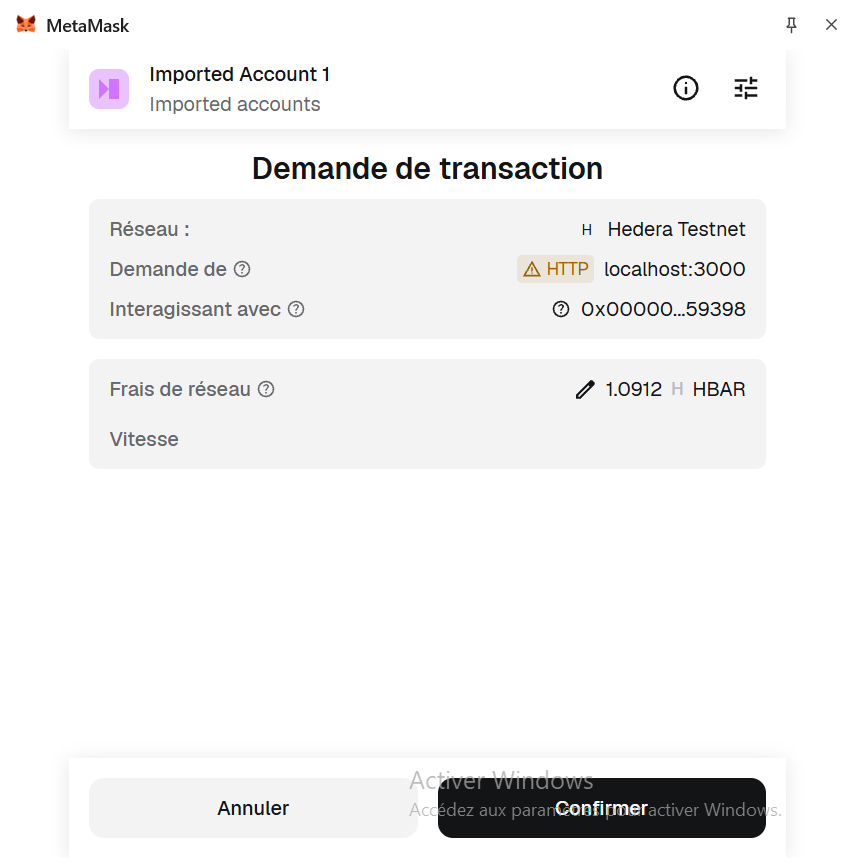
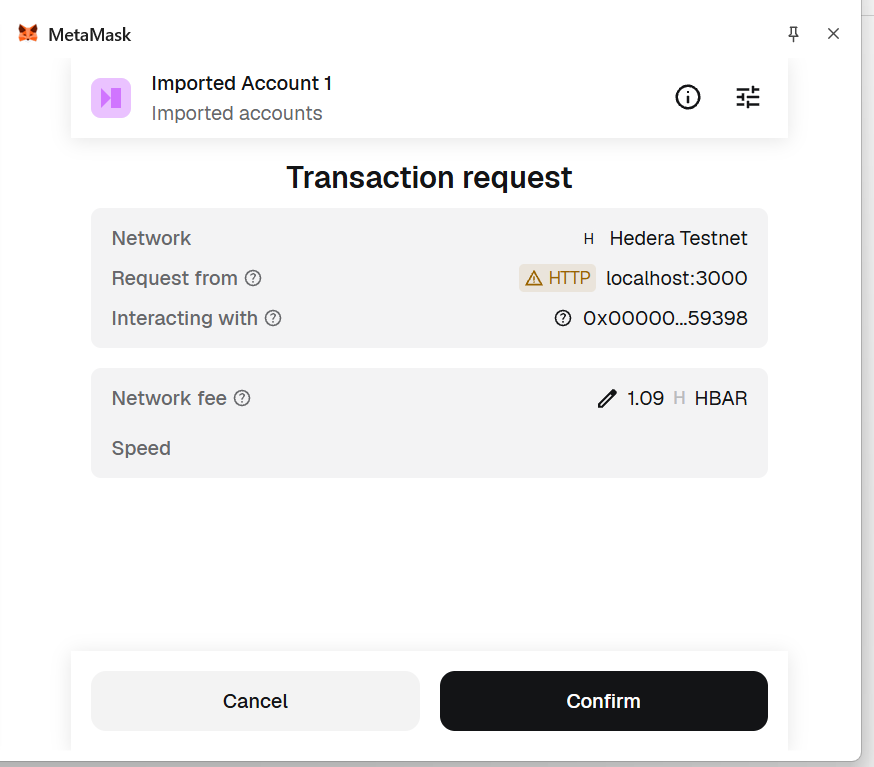
docs: replace the wallet screenshots with English ones
The three pictures are re-taken with the wallet in English and without the desktop watermark, cropped to the panel that carries the claim. Two of them are the same requests re-opened and cancelled on 23 September, not the transactions of 22 September that were signed, and each caption now says so; the third is the activity list rather than a transaction's detail screen, so its caption says what that list does and does not show.

diff --git a/docs/hedera-behaviour.md b/docs/hedera-behaviour.md
@@ -34,13 +34,13 @@ All three answers of the last two rows are captured, so the offline tests replay
 
 **Symptom** — a token-input swap on SaucerSwap V2 needs an HTS allowance for the router. With no allowance, `eth_call` answers a normal result, `eth_estimateGas` answers a number, and the mirror node's own simulator accepts the call as well. The wallet has nothing to warn about: it displayed a network fee of 1.0912 HBAR, a Confirm button and no warning of any kind. The transaction then failed on the network, and the wallet's own history shows "Interaction failed" with no reason at all.
 
-![MetaMask asking for a signature on the swap that would fail: the network, the site, the contract, a network fee of 1.0912 HBAR, and a Confirm button](images/wallet-doomed-swap-confirmation.png)
+![MetaMask asking for a signature on the swap that would fail: the network, the site it comes from, the contract, a network fee of 1.09 HBAR, and Cancel and Confirm](images/wallet-doomed-swap-confirmation.png)
 
-*What the wallet showed before the signature. There is no warning because there is nothing for a wallet to warn about: every simulator it can ask had accepted the call. MetaMask 13.48.0 in French on Chrome 152, Hedera testnet (chain 296), 22 September 2026; the rows read Network, Request from, Interacting with, Network fee. Transaction [`0xdf368443…2352`](https://testnet.mirrornode.hedera.com/api/v1/contracts/results/0xdf368443228e69c4ed1a2a7192d0978b15a51f219981cdd2d5f63250d1582352).*
+*What the wallet shows before the signature: a fee, two buttons, and no warning. There is nothing for it to warn about, because every simulator it can ask had accepted the call. MetaMask 13.48.0 on Chrome 152, Hedera testnet (chain 296). This request was re-opened and cancelled on 23 September 2026 to take the picture; the one that was signed, and lost, is transaction [`0xdf368443…2352`](https://testnet.mirrornode.hedera.com/api/v1/contracts/results/0xdf368443228e69c4ed1a2a7192d0978b15a51f219981cdd2d5f63250d1582352) of 22 September.*
 
-![The same transaction in MetaMask's history: status Failed, the date, the account, the network and the transaction id, and no reason](images/wallet-failed-interaction-detail.png)
+![MetaMask's activity list: an entry reading Interaction failed with the same contract, between an approved spending cap and two successful interactions](images/wallet-failed-interaction-history.png)
 
-*And afterwards. The wallet knows the transaction failed and cannot say why: the reason the `multicall` erased survives only in the mirror node's `/actions`, which is where this template's `postMortem` reads it. The same transaction as above, in the same session: MetaMask 13.48.0 in French on Chrome 152, Hedera testnet (chain 296), 22 September 2026.*
+*And afterwards. The wallet lists the failed interaction and says nothing more about it: no reason, no response code, no amount. What the `multicall` erased survives in the mirror node's `/actions`, which is where this template's `postMortem` reads it.*
 
 **Real cause** — an allowance over an HTS token is held by the token service, below the EVM. A simulation runs EVM logic against ledger balances; the allowance is checked when the transaction reaches consensus, and the router's `exactInput` only then gets the response code 292, `SPENDER_DOES_NOT_HAVE_ALLOWANCE`, back from the token service at `0x167`. The simulators are not blind to the token service in general: a swap for more SAUCE than the sender holds is refused by all three (`INSUFFICIENT_TOKEN_BALANCE`), and `eth_call` refuses a swap whose recipient cannot receive the token (`TOKEN_NOT_ASSOCIATED_TO_ACCOUNT`), called directly and through the multicall — its two answers of 22 September 2026 are the fixtures `packages/nextjs/lib/hedera/__tests__/fixtures/rpc/call-direct-unassociated-184.json` and `packages/nextjs/lib/hedera/__tests__/fixtures/rpc/call-multicall-unassociated-184.json`, which the offline tests replay. What the other two answer for that recipient was not asked. The miss is the allowance check. One more layer hides the reason afterwards: SaucerSwap's router inherits Uniswap's `multicall`, which drops a revert shorter than 68 bytes, so the mirror node's `error_message` for the failed swap is `0x` and the response code survives only in the transaction's `/actions` view and in its child records.
 
@@ -85,9 +85,9 @@ The two refusals are captured for the offline tests, as answers and as records: 
 
 **Symptom** — opening a SaucerSwap V2 liquidity position is a `mint` on the position manager. Both `eth_call` and `eth_estimateGas` refuse it with `CONTRACT_REVERT_EXECUTED, INVALID_NFT_ID`, directly and through `multicall`, although the network executes the very same call. A wallet asks the relay for that estimate to price the transaction: MetaMask displayed "network fee unavailable" and the send failed. A dapp that lets the wallet estimate cannot open a position on Hedera today. Standard tooling reports this as an ordinary failure: before this template's decoder, the send came back as an empty revert with viem's "RPC endpoint returned HTTP client error", which tells a developer nothing.
 
-![MetaMask asking for a signature on the position mint: an amount of 1.653612 HBAR and a network fee reading "Non disponible"](images/wallet-fee-unavailable-mint.png)
+![MetaMask asking for a signature on the position mint: an amount of 1.653612 HBAR and a network fee reading Unavailable](images/wallet-fee-unavailable-mint.png)
 
-*The same mint offered to the wallet without a gas limit, from a throwaway page written for that session and not shipped in this template: MetaMask cannot price a call no simulator will price, shows `Non disponible` — unavailable — where the fee belongs, and the send then failed (the send was refused before it reached the network, so it has no transaction to link; the mint that did go through, with a limit this template supplies, is in the proof table below). MetaMask 13.48.0 in French on Chrome 152, Hedera testnet, 22 September 2026.*
+*The same mint handed to the wallet without a gas limit, from a throwaway page written for that session and not shipped in this template. MetaMask cannot price a call that no simulator will price: it writes `Unavailable` where the fee belongs, and the send then fails. Re-opened and cancelled on 23 September 2026 for the picture; the mint that did go through, with the limit this template supplies, is in the proof table below. MetaMask 13.48.0 on Chrome 152.*
 
 **Real cause** — the mint reads the position NFT that the call itself is about to create, and the answer of that read outside a real transaction is `INVALID_NFT_ID`. That it is an artefact of the simulators, not a property of the call, was shown by replaying two mints that had succeeded at the block before their own: both simulators refuse the calldata they had just executed, while a swap and a `decreaseLiquidity` replay cleanly. It is not a general rule of the position manager either: a keyless simulation prices `increaseLiquidity`, and the wallet priced `decreaseLiquidity`, `collect` and `burn` itself in the same session, with no limit from that page. What was checked, how, and what was left out of the rules is recorded in `packages/nextjs/lib/hedera/gasRules.ts`.
 
